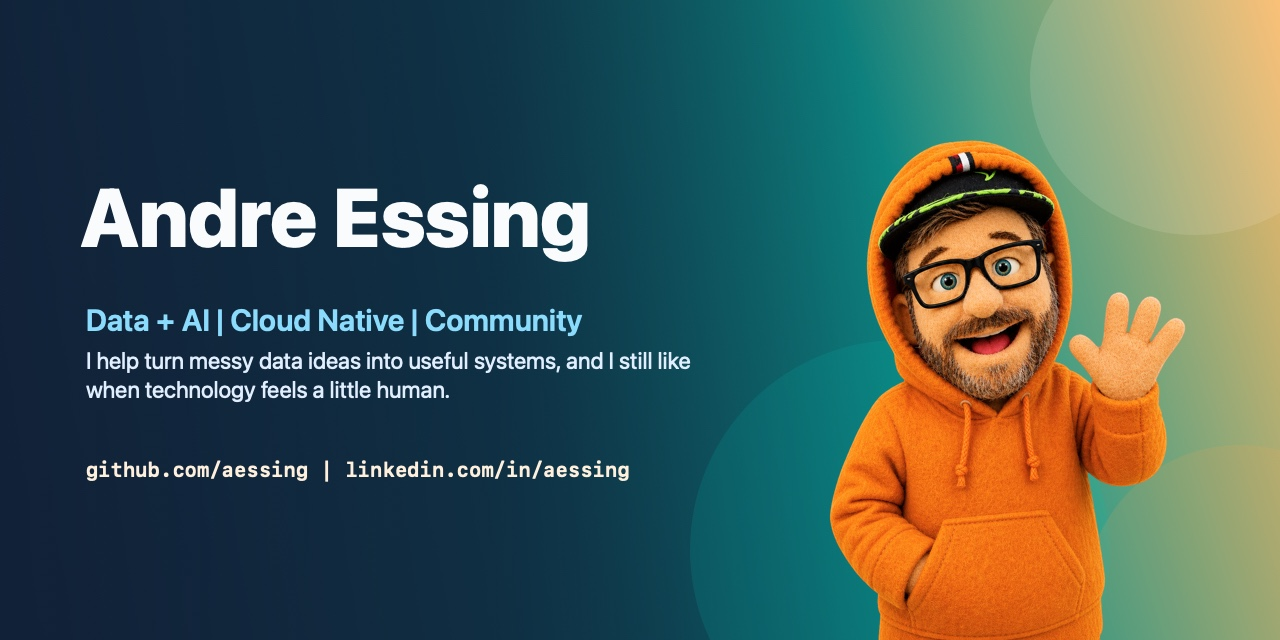
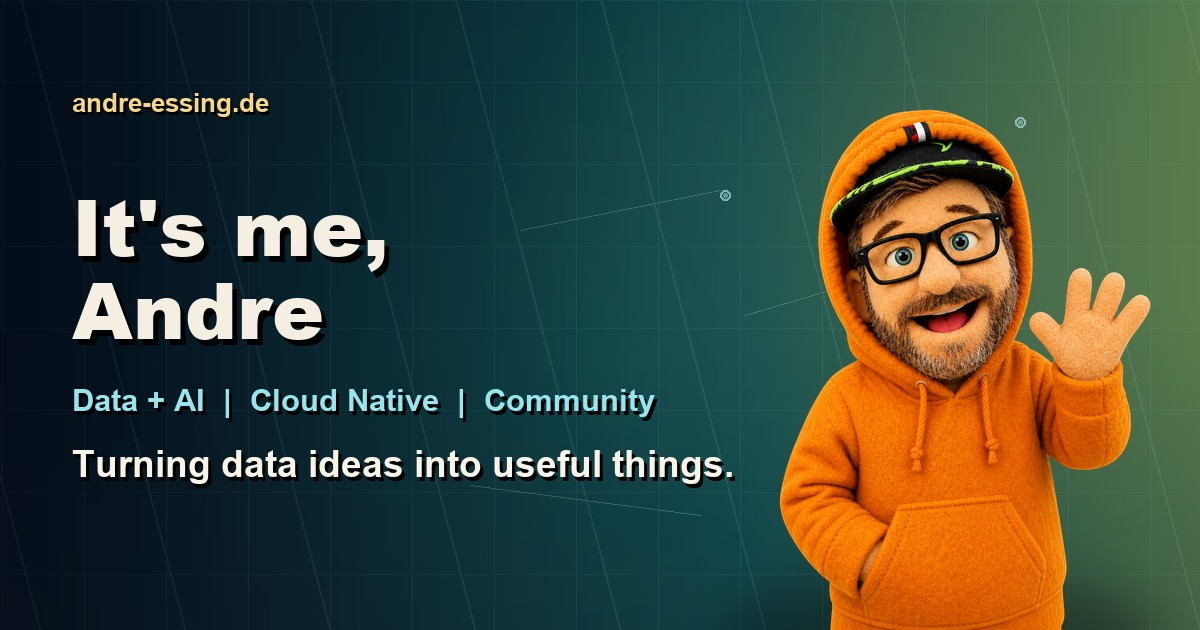
Refresh profile landing page visuals

diff --git a/docs/index.html b/docs/index.html
@@ -3,20 +3,47 @@
   <head>
     <meta charset="utf-8">
     <meta name="viewport" content="width=device-width, initial-scale=1">
-    <title>Andre Essing | Links</title>
-    <meta name="description" content="Andre Essing links, GitHub, LinkedIn, and a personal note about useful Data + AI work.">
+    <title>It's me, Andre Essing | Turning data ideas into useful things</title>
+    <meta name="description" content="Andre Essing turns data ideas into useful things across Data + AI and cloud-native work, with a personal note and a human touch.">
+    <meta name="author" content="Andre Essing">
+    <meta name="robots" content="index, follow">
     <meta name="theme-color" content="#101d29">
+    <link rel="canonical" href="https://andre-essing.de/">
+    <link rel="me" href="https://github.com/aessing">
+    <link rel="me" href="https://www.linkedin.com/in/aessing/">
     <meta property="og:type" content="website">
-    <meta property="og:title" content="Andre Essing | Data ideas, made useful">
-    <meta property="og:description" content="A personal link page for Andre Essing, with GitHub, LinkedIn, and a little Data + AI personality.">
-    <meta property="og:image" content="assets/images/social-preview.jpg">
+    <meta property="og:site_name" content="Andre Essing">
+    <meta property="og:locale" content="en_US">
+    <meta property="og:url" content="https://andre-essing.de/">
+    <meta property="og:title" content="It's me, Andre Essing | Turning data ideas into useful things">
+    <meta property="og:description" content="Turning data ideas into useful things across Data + AI and cloud-native work.">
+    <meta property="og:image" content="https://andre-essing.de/assets/images/social-preview.jpg">
+    <meta property="og:image:secure_url" content="https://andre-essing.de/assets/images/social-preview.jpg">
+    <meta property="og:image:type" content="image/jpeg">
+    <meta property="og:image:width" content="1200">
+    <meta property="og:image:height" content="630">
+    <meta property="og:image:alt" content="Andre Essing's personal link page with the headline It's me, Andre, the text Turning data ideas into useful things, and the tags Data + AI, Cloud Native, Community.">
     <meta name="twitter:card" content="summary_large_image">
-    <meta name="twitter:title" content="Andre Essing | Data ideas, made useful">
-    <meta name="twitter:description" content="GitHub, LinkedIn, and a personal note about useful Data + AI work.">
-    <meta name="twitter:image" content="assets/images/social-preview.jpg">
+    <meta name="twitter:title" content="It's me, Andre Essing | Turning data ideas into useful things">
+    <meta name="twitter:description" content="Turning data ideas into useful things across Data + AI and cloud-native work.">
+    <meta name="twitter:image" content="https://andre-essing.de/assets/images/social-preview.jpg">
+    <meta name="twitter:image:alt" content="Andre Essing's personal link page with the headline It's me, Andre, the text Turning data ideas into useful things, and the tags Data + AI, Cloud Native, Community.">
     <link rel="preload" as="image" href="assets/images/andre-character.png">
     <link rel="stylesheet" href="assets/site.css">
     <script defer src="assets/site.js"></script>
+    <script type="application/ld+json">
+      {
+        "@context": "https://schema.org",
+        "@type": "Person",
+        "name": "Andre Essing",
+        "url": "https://andre-essing.de/",
+        "sameAs": [
+          "https://github.com/aessing",
+          "https://www.linkedin.com/in/aessing/"
+        ],
+        "description": "Andre Essing turns data ideas into useful things across Data + AI and cloud-native work."
+      }
+    </script>
   </head>
   <body>
     <a class="skip-link" href="#main">Skip to content</a>
@@ -32,8 +59,9 @@
         </div>
 
         <div class="hero__content">
-          <p class="intro">Hi, I'm Andre</p>
-          <h1 id="hero-title">Data ideas, made useful.</h1>
+          <p class="intro">It's me, Andre</p>
+          <h1 id="hero-title">Turning data ideas into useful things.</h1>
+          <p class="hero__tags">Data + AI | Cloud Native | Community</p>
           <p class="hero__copy">I help turn messy data ideas into useful systems, and I still like when technology feels a little human.</p>
 
           <div class="hero__links" aria-label="Profile links">

diff --git a/docs/assets/site.css b/docs/assets/site.css
@@ -225,13 +225,22 @@ p {
 }
 
 h1 {
-  max-width: 9.6ch;
-  margin-bottom: 1.35rem;
+  max-width: 12.4ch;
+  margin-bottom: 2.15rem;
   color: var(--ink);
-  font-size: clamp(4.25rem, 11.4vw, 9.2rem);
+  font-size: clamp(3.7rem, 8.5vw, 7.2rem);
   font-weight: 950;
-  line-height: .82;
+  line-height: .88;
   letter-spacing: 0;
+}
+
+.hero__tags {
+  max-width: 100%;
+  margin-bottom: 1.55rem;
+  color: var(--cyan);
+  font-size: clamp(1rem, 1.38vw, 1.24rem);
+  font-weight: 900;
+  line-height: 1.2;
 }
 
 .hero__copy {
@@ -376,8 +385,14 @@ h1 {
   }
 
   h1 {
-    max-width: 10ch;
-    font-size: clamp(3.15rem, 15vw, 4.4rem);
+    max-width: 11.5ch;
+    margin-bottom: 1.45rem;
+    font-size: clamp(2.95rem, 12.5vw, 4.1rem);
+  }
+
+  .hero__tags {
+    font-size: .94rem;
+    margin-bottom: 1.15rem;
   }
 
   .hero__copy {

diff --git a/README.md b/README.md
@@ -1,4 +1,4 @@
-<img src="images/banner.png" alt="Warm illustrated banner for Andre Essing with a friendly character and Data plus AI tagline">
+<img src="images/banner.png" alt="Warm illustrated banner for Andre Essing with Data + AI, Cloud Native, and Community tagline">
 
 # :wave: Hi there, I'm Andre
 
